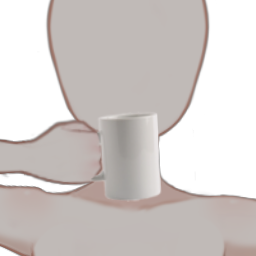
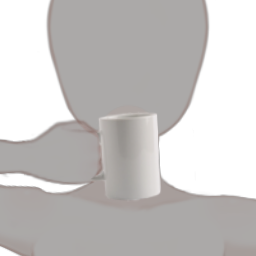
[CHANGE] Mug preview

diff --git a/src/assets/handhelds/mug/mug.asset.ts b/src/assets/handhelds/mug/mug.asset.ts
@@ -8,7 +8,7 @@ DefineAsset({
 			default: '#F2EEEE',
 		},
 	},
-	// size:260, y:364, X:0
+	// size:200, y:250, X:0
 	preview: 'preview.png',
 	attributes: {
 		provides: [
